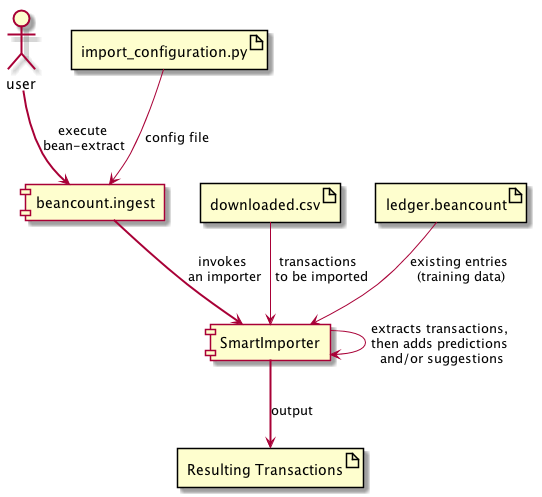
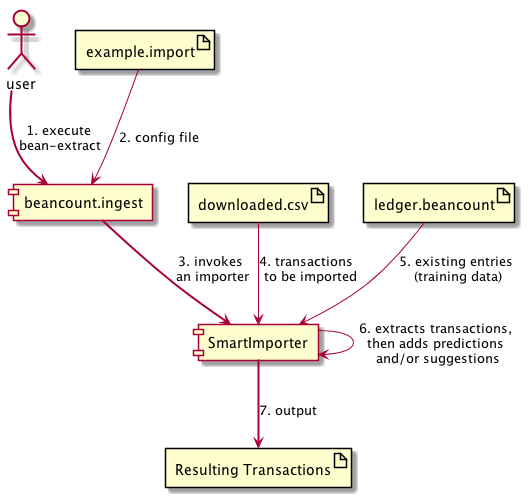
refs #42 rename import_configuration.py into example.import and recommends "bean-extract -f existing_transactions.beancount" instead of an explicit definition of the training data.

diff --git a/README.rst b/README.rst
@@ -87,8 +87,18 @@ The smart importer is added to the ``CONFIG`` array in the same way as any other
 
 
 
+
+Documentation
+-------------
+
+This section explains in detail
+the relevant concepts and artifacts
+needed for creating smart beancount importer.
+
+
+
 System Overview
----------------
+~~~~~~~~~~~~~~~
 
 The following figure provides an overview of the import process and its components.
 
@@ -100,29 +110,20 @@ The following figure provides an overview of the import process and its componen
    System overview showing the process how smart importers are used to predict and suggest values in the transactions to be imported.
 
 
-1. The user executes ``bean-extract`` in order to import downloaded bank statements into beancount.
-2. The user must specify an import configuration file for ``bean-extract``. This file defines a list of importers to be used by beancount.ingest.
-3. ```beancount.ingest`` invokes a matching importer.
+1. The user executes ``bean-extract -f existing_transactions.beancount`` in order to import downloaded bank statements into beancount.
+   Note: Instead of invoking the importer directly, a user may work with a GUI such as `fava <https://github.com/beancount/fava>`__.
+2. The user specifies an import configuration file for ``bean-extract``. This file can be named, for example, ``example.import``. It is a regular python file that defines a list of importers to be used by beancount.ingest.
+3. ``beancount.ingest`` invokes a matching importer.
 4. The importer reads the downloaded bank statement, typically a CSV file, and extracts beancount transactions from it.
-5. Smart importers read existing beancount entries and use them to train a machine learning model.
-6. Smart importers use the trained machine learning model to enhance the extracted transactions with predictions and suggestions.
+   Note: Beancount importers are described in the `beancount ingest <http://furius.ca/beancount/doc/ingest>`__ documentation.
+5. Smart importers extend the functionlity of regular beancount importers. They read existing beancount entries and use them to train a machine learning model.
+6. The smart importer uses the trained machine learning model to enhance the extracted transactions with predictions and suggestions.
 7. The resulting transactions are returned to the user.
 
 
 
-Usage
------
-
-This section explains relevant concepts and artifacts
-and guides through the creation of a smart beancount importer.
-
-
 Beancount Importers
 ~~~~~~~~~~~~~~~~~~~~
-
-The documentation on `beancount ingest <http://furius.ca/beancount/doc/ingest>`__
-describes how users can write their own importers
-and use them to convert downloaded bank statements into lists of beancount transactions.
 
 This documentation assumes you have created beancount importers already.
 For example, an importer for "MyBank" called ``MyBankImporter``:
@@ -133,6 +134,11 @@ For example, an importer for "MyBank" called ``MyBankImporter``:
         """My existing importer"""
         # the actual importer logic would be here...
         pass
+
+The documentation on `beancount ingest <http://furius.ca/beancount/doc/ingest>`__
+describes how users can write their own importers
+and use them to convert downloaded bank statements into lists of beancount transactions.
+
 
 
 Applying `smart_importer` Decorators
@@ -167,7 +173,7 @@ and thus employs machine learnign to predict missing second postings.
 Note that the decorators can be applied to either an importer class, as shown above, or its extract method.
 The result is the same in both cases.
 See `Applying the Decorators <docs/Applying_the_Decorators.rst>`__
-for a description of various ways how the decorators can be applied to importers.
+for a description of various alternative ways of applying the decorators to importers.
 
 
 
@@ -176,15 +182,13 @@ Specifying Training Data
 
 The ``smart_importer`` decorators must be fed with training data in order to be effective.
 
-Training data can be provided directly as an argument ``training_data`` to the decorators:
-
-.. code:: python
-
-    @PredictPostings(training_data='ledger.beancount')
+Training data can be specified by calling bean-extract with an argument that references existing beancount transactions,
+e.g., ``bean-extract -f existing_transactions.beancount``.
 
 
-If training data is not provided as an argument,
-the decorators try to use the ``existing_entries`` that can be passed to an importer's ``extract`` method.
+See `Specifying Training Data <docs/Specifying_Training_Data.rst>`__
+for additional options how training data can be provided to the decorators.
+
 
 
 

diff --git a/docs/Specifying_Training_Data.rst b/docs/Specifying_Training_Data.rst
@@ -1,0 +1,25 @@
+Specifying Training Data
+========================
+
+Multiple options are available for specifying training data to a ``smart_importer`` decorator.
+The training data is used to train the machine learning models that enhance the imported transactions.
+
+
+Existing Entries Passed to ``bean-extract``
+~~~~~~~~~~~~~~~~~~~~~~~~~~~~~~~~~~~~~~~~~~~
+
+The easiest and recommended option is to specifiy an existing beancount file when calling bean-extract,
+e.g., ``bean-extract -f existing_transactions.beancount``.
+The decorators will use existing transactions from this file as training data.
+
+
+
+Existing Entries Passed to the Decorator
+~~~~~~~~~~~~~~~~~~~~~~~~~~~~~~~~~~~~~~~~
+
+Existing entries can be specified as an argument ``training_data`` like this:
+
+.. code:: python
+
+    @PredictPostings(training_data='ledger.beancount')
+

diff --git a/docs/Applying_the_Decorators.rst b/docs/Applying_the_Decorators.rst
@@ -3,7 +3,7 @@ Applying the `smart_importer` Decorators
 
 Multiple options are available for how the `smart_importer` decorators can be applied.
 The best option is to apply the decorators to subclasses of conventional, regression-tested importers,
-as recommended in the README.
+as recommended in the `README <../README.rst>`__.
 
 
 Applying the Decorators to Importer Classes
